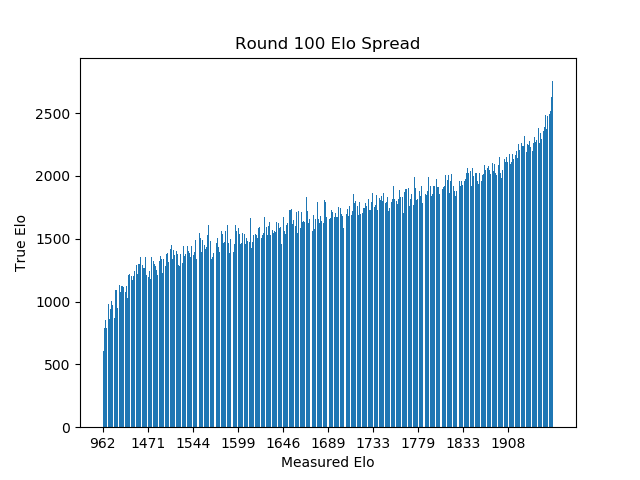
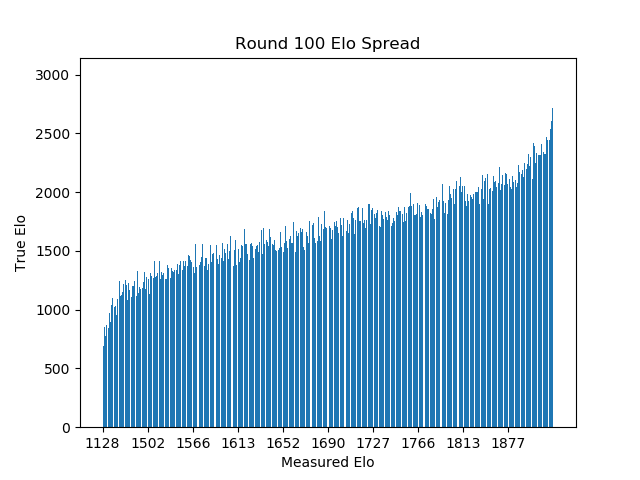
updating new post

diff --git a/Eloschatology.html b/Eloschatology.html
@@ -93,7 +93,7 @@ play_tournament(players, <span class="arg">team_size</span>=1, <span class="arg"
 
                 <div id="text-block">
                     <p>
-                        We can also see that this is fairly accurate to the player's true scores, with a small (but persistent) margin of error across all skill levels.
+                        We can also see that this is roughly accurate to the player's true scores, with a moderate (but persistent) margin of error across all skill levels.
                     </p>
                 </div>
 
@@ -107,10 +107,27 @@ play_tournament(players, <span class="arg">team_size</span>=1, <span class="arg"
 
                 <div id="text-block">
                     <p>
-                        There are spikes in the error margins, but they are not persistant and fairly small. When we expand the team size to 5 person teams (used in online games like League of Legends), the results are not significantly different; error margins are small but persistent across all skill bands. So far we've used wide bands, matchmaking with anyone within 435 (10000 players / 23 bands) places in the sorted ranking. If we switch to a more strict match-maker that attempts to pair people with more tightly estimated bands, we see problems arise.
+                        One insidious detail of getting to one's true rank: although players average about 30 matches from their true ranked order, the number of consecutive wins or losses it would take is much lower, around 4. While four consecutive wins is unlikely against similarly skilled opposition, this isn't always intuitive. Slot machines take advantage of this by frequently showing an off-by-one Jackpot miss, convincing players that a big payout is likely. Elo systems that display points-won or lost, and have strong bracketing are probably similarly addictive. This might explain the frustrated players who see their easy expectations meet hard reality.
                     </p>
                 </div>
-                    
+
+                <div id="inline-block">
+                    <figure>
+                        <img class="img-thumbnail" width="45%" src="res/img/slot.jpg">
+                        <figcaption> A 'near miss' - image courtesy of Vox.com </figcaption>
+                    </figure>
+                    <figure>
+                        <img class="img-thumbnail" width="45%" src="res/img/Elo/test1/Rd75_err.png">
+                        <figcaption> Deceptively far - 3 matches is more likely to be 30 </figcaption>
+                    </figure>
+                </div>
+
+                <div id="text-block">
+                    <p>
+                        When we expand the team size to 5 person teams (used in online games like League of Legends), the results are not significantly different; error margins are small but persistent across all skill bands. So far we've used wide matchmaking bands, matching players with anyone within 435 (10000 players / 23 bands) places in the sorted ranking. Let's switch to a stricter match-maker that attempts to pair players within tighter bands.
+                    </p>
+                </div>
+
                 <div id="inline-block">
                     <p></p><br/>
                     <p></p><br/>

diff --git a/CREAMserver.html b/CREAMserver.html
@@ -20,6 +20,7 @@
                         <div class="navbar_item"><a href="argusclient.html">Argus Client</a></div>
                         <div class="navbar_item" id="active"><a href="CREAMserver.html">CREAM Server</a></div>
                         <div class="navbar_item"><a href="ID3predictor.html">ID3 Predictor</a></div>
+                        <div class="navbar_item"><a href="Eschatology.html">Elo Simulator</a></div>
                     </div>
                 </li>
             <li><div class="navbar_item"><a href="MikeAndersResume2018.pdf">Resume</a></li></div>

diff --git a/ID3predictor.html b/ID3predictor.html
@@ -20,6 +20,7 @@
                         <div class="navbar_item"><a href="argusclient.html">Argus Client</a></div>
                         <div class="navbar_item"><a href="CREAMserver.html">CREAM Server</a></div>
                         <div class="navbar_item" id="active"><a href="ID3predictor.html">ID3 Predictor</a></div>
+                        <div class="navbar_item"><a href="Eschatology.html">Elo Simulator</a></div>
                     </div>
                 </li>
             <li><div class="navbar_item"><a href="MikeAndersResume2018.pdf">Resume</a></li></div>

diff --git a/argusclient.html b/argusclient.html
@@ -20,6 +20,7 @@
                         <div class="navbar_item" id="active"><a href="argusclient.html">Argus Client</a></div>
                         <div class="navbar_item"><a href="CREAMserver.html">CREAM Server</a></div>
                         <div class="navbar_item"><a href="ID3predictor.html">ID3 Predictor</a></div>
+                        <div class="navbar_item"><a href="Eschatology.html">Elo Simulator</a></div>
                     </div>
                 </li>
             <li><div class="navbar_item"><a href="MikeAndersResume2018.pdf">Resume</a></li></div>

diff --git a/index.html b/index.html
@@ -20,6 +20,7 @@
                         <div class="navbar_item"><a href="argusclient.html">Argus Client</a></div>
                         <div class="navbar_item"><a href="CREAMserver.html">CREAM Server</a></div>
                         <div class="navbar_item"><a href="ID3predictor.html">ID3 Predictor</a></div>
+                        <div class="navbar_item"><a href="Eschatology.html">Elo Simulator</a></div>
                     </div>
                 </li>
             <li><div class="navbar_item"><a href="MikeAndersResume2018.pdf">Resume</a></li></div>
